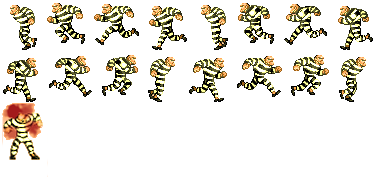
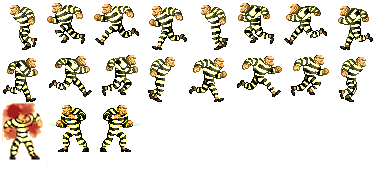
Version with Second Sprite Sheet

Changed region(s): [[0.1164, 0.5932, 0.2328, 0.8757], [0.2619, 0.5932, 0.3783, 0.8757]]

diff --git a/game.js b/game.js
@@ -15,7 +15,7 @@ function preload() {
     game.load.image('shield','assets/shield.png');
     game.load.image('fallingSpike',"assets/newSpikes.png");
     game.load.spritesheet('dude', 'assets/orangefight.png',47,50,19);
-    //game.load.spritesheet('secondDude','assets/white.png',47,50,17);
+    //game.load.spritesheet('secondDude','assets/white.png',47,50,19);
     game.load.spritesheet('fire','assets/spritefire.png',150,500);
     game.load.spritesheet('enemy','assets/trumpface.png');
 
